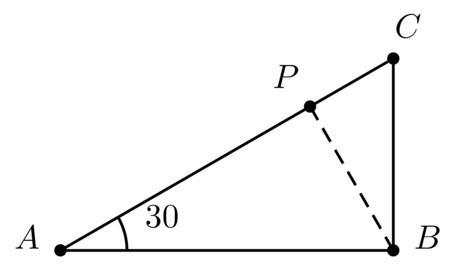
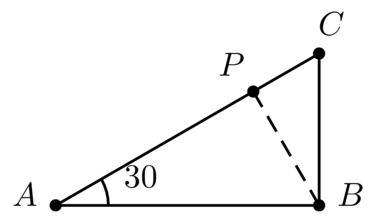
Un peu à propos de trigonométrie.

diff --git a/Xexercices.tex b/Xexercices.tex
@@ -26,11 +26,9 @@
 \section{Trigonométrie}
 %+++++++++++++++++++++++++++++++++++++++++++++++++++++++++++++++++++++++++++++++++++++++++++++++++++++++++++++++++++++++++++
 \justification
-\begin{multicols}{2}
-
 \Exo{smath-0360}
+\begin{multicols}{2}
 \Exo{smath-0361}
-
 \Exo{smath-0467}
 \Exo{smath-0470}
 \Exo{smath-0362}

diff --git a/exosmath-0443.tex b/exosmath-0443.tex
@@ -5,8 +5,8 @@
 
 \begin{exercice}\label{exosmath-0443}
 
-\begin{wrapfigure}{r}{5cm}
-   \vspace{-2cm}        % à adapter.
+\begin{wrapfigure}{r}{4cm}
+   \vspace{-1cm}        % à adapter.
    \centering
    \input{Fig_UEqUrvi.pstricks}
 \end{wrapfigure}

diff --git a/phystricksDZmbmzZ.py b/phystricksDZmbmzZ.py
@@ -2,7 +2,7 @@
 from phystricks import *
 def DZmbmzZ():
     pspict,fig = SinglePicture("DZmbmzZ")
-    pspict.dilatation(1)
+    pspict.dilatation(0.7)
 
     A=Point(3,4)
     B=Point(0,0)

diff --git a/phystricksUEqUrvi.py b/phystricksUEqUrvi.py
@@ -4,7 +4,7 @@ from phystricks import *
 
 def UEqUrvi():
     pspict,fig = SinglePicture("UEqUrvi")
-    pspict.dilatation(1)
+    pspict.dilatation(0.8)
 
     alpha=30
     A=Point(0,0)
